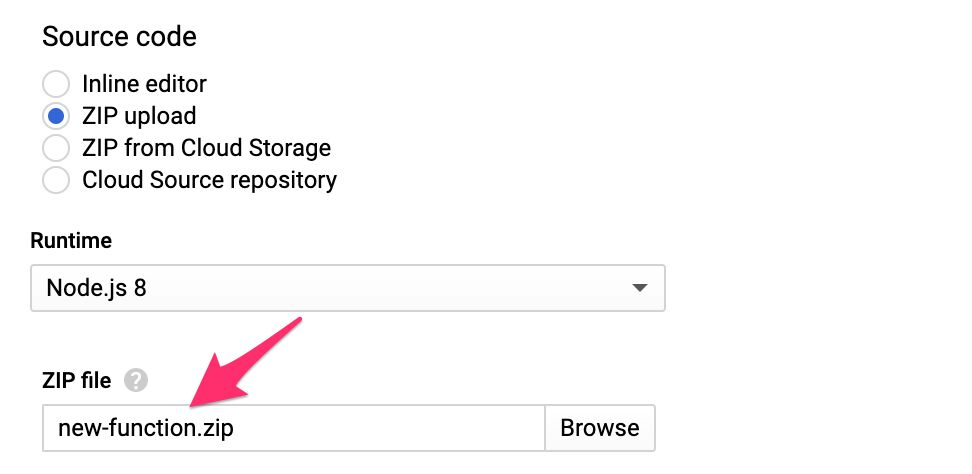
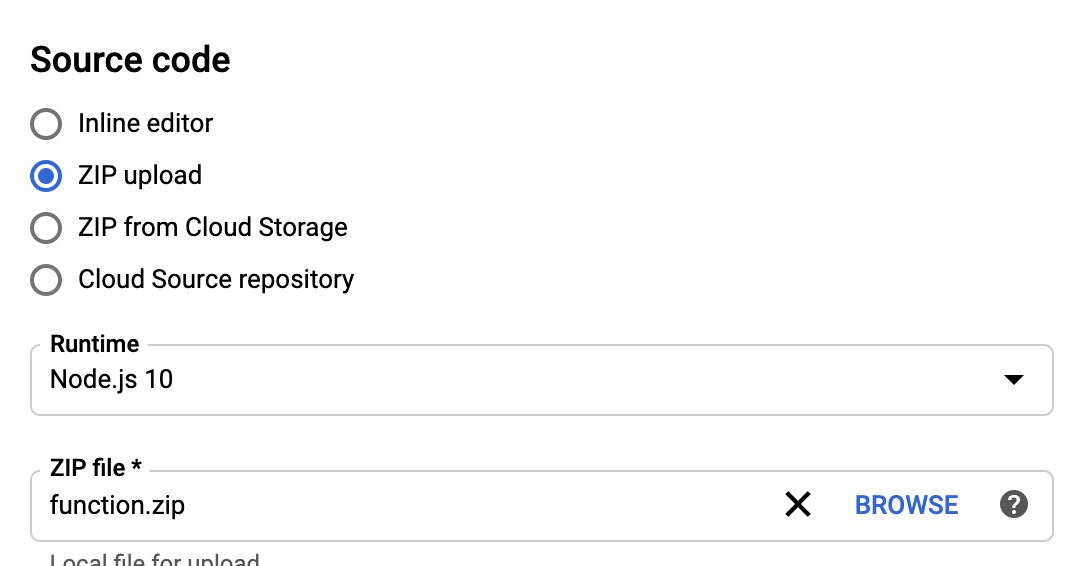
Updated slack guide to work with Nodejs10

diff --git a/amp/analytics/create-slack-notification-system-google-tag-manager-changes/index.html b/amp/analytics/create-slack-notification-system-google-tag-manager-changes/index.html
@@ -1224,13 +1224,13 @@ on
     </a>
   
 
-<p>In the <strong>Source Code</strong> selection, choose <strong>ZIP upload</strong>. Keep <strong>Node.js 8</strong> as the <strong>Runtime</strong>.</p>
+<p>In the <strong>Source Code</strong> selection, choose <strong>ZIP upload</strong>. Set the <strong>Runtime</strong> to <strong>Node.js 10</strong>..</p>
 <p>For <strong>ZIP file</strong>, click <strong>Browse</strong> and locate the archive you just created with your modified <code>config.json</code> included in it.</p>
 
 
-    <a href="https://www.simoahava.com/amp/images/2020/02/new-zip-file.jpg" title="New ZIP file">
+    <a href="https://www.simoahava.com/amp/images/2020/02/new-zip-file.jpg" title="New ZIP File">
   
-    <amp-img src="https://www.simoahava.com/amp/images/2020/02/new-zip-file.jpg" layout="responsive" alt="New ZIP file" height="474" width="972"></amp-img>
+    <amp-img src="https://www.simoahava.com/amp/images/2020/02/new-zip-file.jpg" layout="responsive" alt="New ZIP File" height="566" width="1074"></amp-img>
   
     </a>
   
@@ -1264,9 +1264,9 @@ on
 <p>If all goes well, the icon next to the function name should turn into a green checkmark.</p>
 
 
-    <a href="https://www.simoahava.com/amp/images/2020/02/cloud-function-ready.jpg" title="Cloud Function ready">
+    <a href="https://www.simoahava.com/amp/images/2020/02/cloud-function-ready.jpg" title="Cloud function ready">
   
-    <amp-img src="https://www.simoahava.com/amp/images/2020/02/cloud-function-ready.jpg" layout="responsive" alt="Cloud Function ready" height="340" width="1304"></amp-img>
+    <amp-img src="https://www.simoahava.com/amp/images/2020/02/cloud-function-ready.jpg" layout="responsive" alt="Cloud function ready" height="388" width="2364"></amp-img>
   
     </a>
   

diff --git a/analytics/create-slack-notification-system-google-tag-manager-changes/index.html b/analytics/create-slack-notification-system-google-tag-manager-changes/index.html
@@ -807,16 +807,16 @@
 </div>
 
 
-<p>In the <strong>Source Code</strong> selection, choose <strong>ZIP upload</strong>. Keep <strong>Node.js 8</strong> as the <strong>Runtime</strong>.</p>
+<p>In the <strong>Source Code</strong> selection, choose <strong>ZIP upload</strong>. Set the <strong>Runtime</strong> to <strong>Node.js 10</strong>..</p>
 <p>For <strong>ZIP file</strong>, click <strong>Browse</strong> and locate the archive you just created with your modified <code>config.json</code> included in it.</p>
 
 
 
 <div class="figure nocaption" >
   
-    <a href="https://www.simoahava.com/images/2020/02/new-zip-file.jpg" title="New ZIP file">
+    <a href="https://www.simoahava.com/images/2020/02/new-zip-file.jpg" title="New ZIP File">
   
-    <img class="fig-img lazy" data-src="https://www.simoahava.com/images/2020/02/new-zip-file.jpg#ZgotmplZ" alt="New ZIP file">
+    <img class="fig-img lazy" data-src="https://www.simoahava.com/images/2020/02/new-zip-file.jpg#ZgotmplZ" alt="New ZIP File">
   
     </a>
   
@@ -868,9 +868,9 @@
 
 <div class="figure nocaption" >
   
-    <a href="https://www.simoahava.com/images/2020/02/cloud-function-ready.jpg" title="Cloud Function ready">
+    <a href="https://www.simoahava.com/images/2020/02/cloud-function-ready.jpg" title="Cloud function ready">
   
-    <img class="fig-img lazy" data-src="https://www.simoahava.com/images/2020/02/cloud-function-ready.jpg#ZgotmplZ" alt="Cloud Function ready">
+    <img class="fig-img lazy" data-src="https://www.simoahava.com/images/2020/02/cloud-function-ready.jpg#ZgotmplZ" alt="Cloud function ready">
   
     </a>
   
